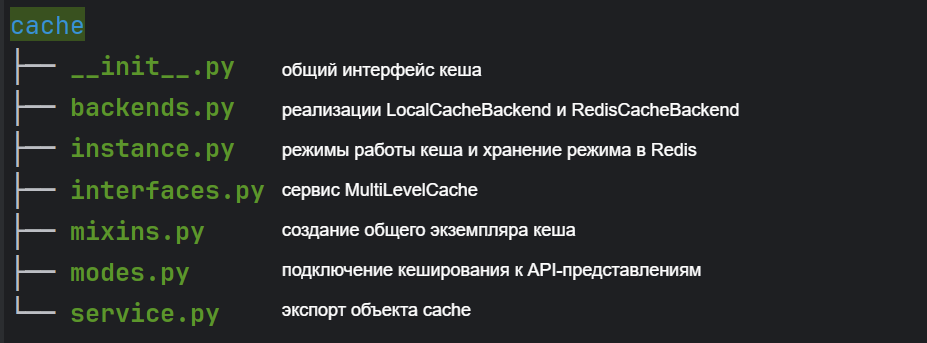
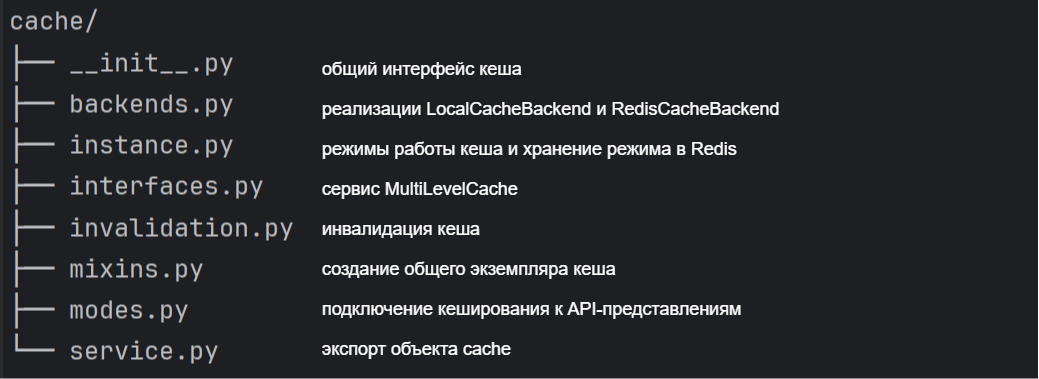
cache invalidation

diff --git a/cache/service.py b/cache/service.py
@@ -1,5 +1,5 @@
 from threading import Lock, RLock
-from typing import Any, Callable
+from typing import Any, Callable, Set
 
 from .interfaces import CacheInterface
 from .modes import CACHE_MODE_CONFIGS, RedisCacheModeStorage
@@ -90,6 +90,39 @@ class MultiLevelCache(CacheInterface):
         self._refresh_configuration()
         self.local_cache.delete(key)
         self.redis_cache.delete(key)
+
+    def get_namespace_version(self, namespace: str) -> int:
+        """Возвращает версию логической области кеша.
+
+        Namespace-версии используются для точечной инвалидации: при изменении
+        данных увеличивается версия области, и новые запросы начинают читать
+        другие ключи. Старые ключи удаляются по TTL без дорогого scan/delete.
+        """
+        self._refresh_configuration()
+
+        if self.mode_storage is None:
+            return 0
+
+        return self.mode_storage.get_namespace_version(namespace)
+
+    def bump_namespace_version(self, namespace: str) -> int:
+        """Инвалидирует одну логическую область кеша."""
+        if self.mode_storage is None:
+            self.local_cache.clear()
+            return 0
+
+        version = self.mode_storage.bump_namespace_version(namespace)
+        self.local_cache.clear()
+        return version
+
+    def bump_namespace_versions(self, namespaces: list[str] | tuple[str, ...] | Set[str]) -> None:
+        """Инвалидирует несколько областей кеша."""
+        for namespace in sorted(set(namespaces)):
+            self.bump_namespace_version(namespace)
+
+    def versioned_key(self, namespace: str, key: str) -> str:
+        version = self.get_namespace_version(namespace)
+        return f'{namespace}:v{version}:{key}'
 
     def clear(self) -> None:
         """Очищает кеш во всех backend-ах и инвалидирует local cache во всех контейнерах."""

diff --git a/main/signals.py b/main/signals.py
@@ -1,0 +1,60 @@
+from django.db import transaction
+from django.db.models.signals import m2m_changed, post_delete, post_save
+from django.dispatch import receiver
+
+from cache.invalidation import (
+    invalidate_person,
+    invalidate_title,
+    invalidate_title_collections,
+)
+from main.models import Crew, Genre, Person, Principal, Rating, Title
+
+
+def on_commit(callback):
+    transaction.on_commit(callback)
+
+
+@receiver(post_save, sender=Title)
+@receiver(post_delete, sender=Title)
+def invalidate_title_cache(sender, instance: Title, **kwargs):
+    on_commit(lambda: invalidate_title(instance.id))
+
+
+@receiver(post_save, sender=Rating)
+@receiver(post_delete, sender=Rating)
+def invalidate_rating_cache(sender, instance: Rating, **kwargs):
+    on_commit(lambda: invalidate_title(instance.title_id))
+
+
+@receiver(post_save, sender=Genre)
+@receiver(post_delete, sender=Genre)
+def invalidate_genre_cache(sender, instance: Genre, **kwargs):
+    on_commit(invalidate_title_collections)
+
+
+@receiver(m2m_changed, sender=Title.genres.through)
+def invalidate_title_genres_cache(sender, instance: Title, action: str, **kwargs):
+    if action in {'post_add', 'post_remove', 'post_clear'}:
+        on_commit(lambda: invalidate_title(instance.id))
+
+
+@receiver(post_save, sender=Person)
+@receiver(post_delete, sender=Person)
+def invalidate_person_cache(sender, instance: Person, **kwargs):
+    on_commit(lambda: invalidate_person(instance.id))
+
+
+@receiver(post_save, sender=Principal)
+@receiver(post_delete, sender=Principal)
+def invalidate_principal_cache(sender, instance: Principal, **kwargs):
+    title_id = instance.title_id
+    person_id = instance.person_id
+    on_commit(lambda: (invalidate_title(title_id), invalidate_person(person_id)))
+
+
+@receiver(post_save, sender=Crew)
+@receiver(post_delete, sender=Crew)
+def invalidate_crew_cache(sender, instance: Crew, **kwargs):
+    title_id = instance.title_id
+    person_id = instance.person_id
+    on_commit(lambda: (invalidate_title(title_id), invalidate_person(person_id)))

diff --git a/cache/invalidation.py b/cache/invalidation.py
@@ -1,0 +1,54 @@
+from __future__ import annotations
+
+from collections.abc import Iterable
+
+from cache.instance import cache
+
+
+TITLE_COLLECTION_NAMESPACES = (
+    'titles:list',
+    'titles:top',
+    'titles:search',
+    'titles:discover',
+)
+
+TITLE_DETAIL_NAMESPACES = (
+    'title:detail',
+    'title:full',
+)
+
+ANALYTICS_NAMESPACES = (
+    'analytics:top-genres',
+)
+
+
+def invalidate_namespaces(namespaces: Iterable[str]) -> None:
+    cache.bump_namespace_versions(tuple(namespaces))
+
+
+def invalidate_title_collections() -> None:
+    invalidate_namespaces((*TITLE_COLLECTION_NAMESPACES, *ANALYTICS_NAMESPACES))
+
+
+def invalidate_title(title_id: int | None = None) -> None:
+    namespaces = [*TITLE_COLLECTION_NAMESPACES, *ANALYTICS_NAMESPACES]
+
+    namespaces.extend(TITLE_DETAIL_NAMESPACES)
+    invalidate_namespaces(namespaces)
+
+
+def invalidate_person(person_id: int | None = None) -> None:
+    namespaces = []
+
+    namespaces.append('person:full')
+    namespaces.extend(TITLE_COLLECTION_NAMESPACES)
+    invalidate_namespaces(namespaces)
+
+
+def invalidate_all_application_cache() -> None:
+    invalidate_namespaces((
+        *TITLE_COLLECTION_NAMESPACES,
+        *TITLE_DETAIL_NAMESPACES,
+        'person:full',
+        *ANALYTICS_NAMESPACES,
+    ))

diff --git a/cache/modes.py b/cache/modes.py
@@ -97,6 +97,34 @@ class RedisCacheModeStorage:
             logger.exception('Failed to bump cache version in Redis')
             raise
 
+    def _namespace_version_key(self, namespace: str) -> str:
+        return f'{self.version_key}:namespace:{namespace}'
+
+    def get_namespace_version(self, namespace: str) -> int:
+        try:
+            raw = self.redis_client.get(self._namespace_version_key(namespace))
+        except RedisError:
+            logger.exception('Failed to read namespace cache version from Redis')
+            return 0
+
+        if raw is None:
+            return 0
+
+        if isinstance(raw, bytes):
+            raw = raw.decode('utf-8')
+
+        try:
+            return int(raw)
+        except (TypeError, ValueError):
+            return 0
+
+    def bump_namespace_version(self, namespace: str) -> int:
+        try:
+            return int(self.redis_client.incr(self._namespace_version_key(namespace)))
+        except RedisError:
+            logger.exception('Failed to bump namespace cache version in Redis')
+            return 0
+
     def normalize_mode(self, mode: str | None) -> str:
         if mode in CACHE_MODE_CONFIGS:
             return str(mode)

diff --git a/cache/mixins.py b/cache/mixins.py
@@ -16,8 +16,17 @@ class CacheResponseMixin:
     def get_cache_ttl(self) -> int:
         return self.cache_ttl
 
+    def get_cache_namespace(self) -> str:
+        if self.cache_prefix:
+            return self.cache_prefix
+
+        return self.__class__.__name__
+
     def get(self, request, *args, **kwargs):
-        cache_key = self.build_cache_key()
+        cache_key = cache.versioned_key(
+            namespace=self.get_cache_namespace(),
+            key=self.build_cache_key(),
+        )
 
         data = cache.get_or_set(
             key=cache_key,

diff --git a/main/apps.py b/main/apps.py
@@ -4,3 +4,6 @@ from django.apps import AppConfig
 class MainConfig(AppConfig):
     default_auto_field = 'django.db.models.BigAutoField'
     name = 'main'
+
+    def ready(self):
+        import main.signals  # noqa: F401

diff --git a/config/settings.py b/config/settings.py
@@ -54,7 +54,7 @@ INSTALLED_APPS = [
     'django.contrib.staticfiles',
     'rest_framework',
     'drf_spectacular',
-    'main',
+    'main.apps.MainConfig',
 ]
 
 MIDDLEWARE = [
